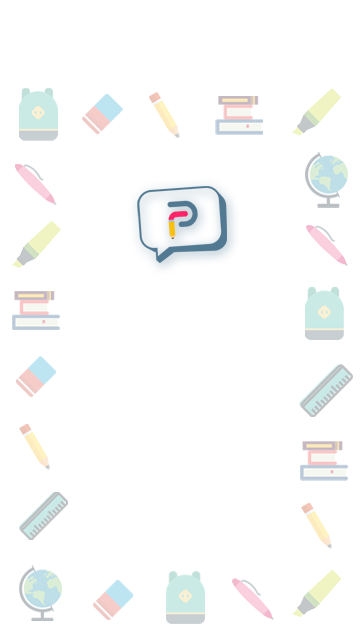
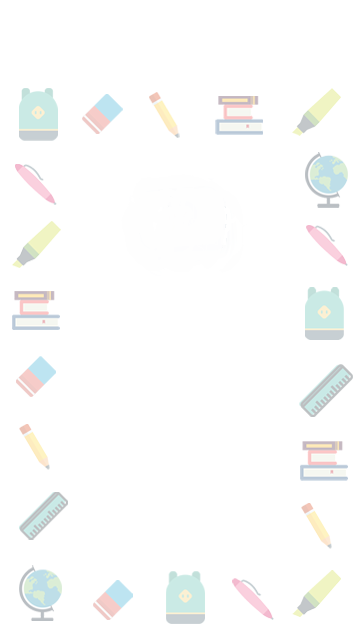
home y textarea

Changed region(s): [[0.3972, 0.2812, 0.6417, 0.4375], [0.3667, 0.3125, 0.3972, 0.375]]

diff --git a/src/pages/my-experiences/my-experiences.html b/src/pages/my-experiences/my-experiences.html
@@ -12,9 +12,9 @@
 <ion-content padding>
   <ion-list>
     <ion-item *ngFor="let experience of experiences">
-      <h4 class="uno"><ion-icon name='ios-school' color="" is-active="false"></ion-icon> {{experience.name}}</h4>
-      <h4><ion-icon name='ios-quote' is-active="false"></ion-icon> {{experience.description}}</h4>
-      <h4><ion-icon name='md-calendar' is-active="false"></ion-icon> {{experience.date}}</h4>
+      <div class="uno"><ion-icon class="icon" name='ios-school' color="" is-active="false"></ion-icon> <textarea class="area">{{experience.name}}</textarea></div>
+      <div class="uno"><ion-icon class="icon" name='ios-quote' is-active="false"></ion-icon> <textarea class="area">{{experience.description}}</textarea></div>
+      <div><ion-icon class="icon" name='md-calendar' is-active="false"></ion-icon> {{experience.date}}</div>
       <button class="botones" title="Delete" ion-button color="danger" (click)="deleteExperience(experience)" clear icon-only>
         <ion-icon name='trash' is-active="false"></ion-icon>
       </button>

diff --git a/src/pages/home/home.scss b/src/pages/home/home.scss
@@ -9,11 +9,18 @@ page-home {
   }
 
   .content{
+
     background-image: url("../assets/imgs/home.png");
-    background-size: 75% 150%;
+    background-size: cover;
     background-position: center;
-    margin-top: -5%;
   }
+
+  .logo{
+    max-width: 160px;
+    margin-top: -110px;
+    margin-bottom: 16px;
+  }
+
   .gsad-icon {
     display: block;
     margin: auto;
@@ -54,9 +61,8 @@ page-home {
 
   .teacher {
     text-shadow: 0px 0px 6px rgba(150, 150, 150, 1);
-    margin-top: 270px;
+    margin-top: 210px;
     text-align: center;
-    align-content: center;
     font-size: 13px;
     font-weight: bold;
     color: #336699;
@@ -67,7 +73,7 @@ page-home {
 
   .student {
     text-shadow: 0px 0px 6px rgba(150, 150, 150, 1);
-    margin-top: 270px;
+    margin-top: 230px;
     text-align: center;
     font-size: 13px;
     font-weight: bold;
@@ -77,3 +83,4 @@ page-home {
     margin-right: 40px;
   }
 }
+

diff --git a/src/pages/my-experiences/my-experiences.scss b/src/pages/my-experiences/my-experiences.scss
@@ -33,16 +33,24 @@ my-experiences {
   ion-list .item .item-inner{
     box-sizing: border-box;
     border-radius: 5px;
-    margin-top: 5px;
+    margin-top: 10px;
     background-color: white;
     resize: none;
     border: 4px solid #f9c00f;
-    .uno {
-      padding-top: 4px;
+    font-family: Arial;
+    font-size: 14px;
+
+
+    .area{
+      resize: none;
+      width: 90%;
+      border: 0px;
     }
-    h4{
-      width: 100%;
-      overflow: auto;
+    .icon{
+      float: left;
+      margin-top: 2px;
+      margin-left: 10px;
+      margin-right: 8px;
     }
   }
 

diff --git a/src/pages/home/home.html b/src/pages/home/home.html
@@ -11,6 +11,7 @@
 
 <ion-content>
   <div class="teacher" align="left" *ngIf="this.aux == false">
+    <img class="logo" src="../assets/imgs/logo.png">
     <p class="p1">¿Te gustaria impartir clases?</p>
     <button class="crearClase"  (click)="addOffer()" ><ion-icon name='md-create' is-active="false"></ion-icon> Crea una clase</button>
     <br>

diff --git a/src/pages/my-messages/my-messages.scss b/src/pages/my-messages/my-messages.scss
@@ -25,7 +25,7 @@ my-messages{
       }
       .area{
         background-color: #bdedc1;
-        margin-left: 8px;
+        margin-left: 7px;
         .icon-message {
           float: left;
         }
